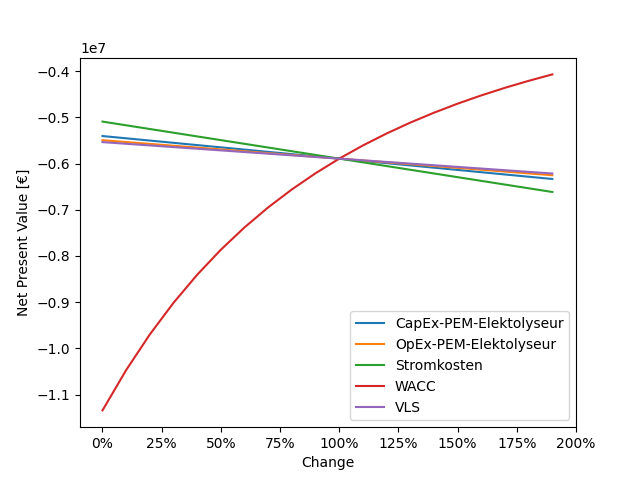
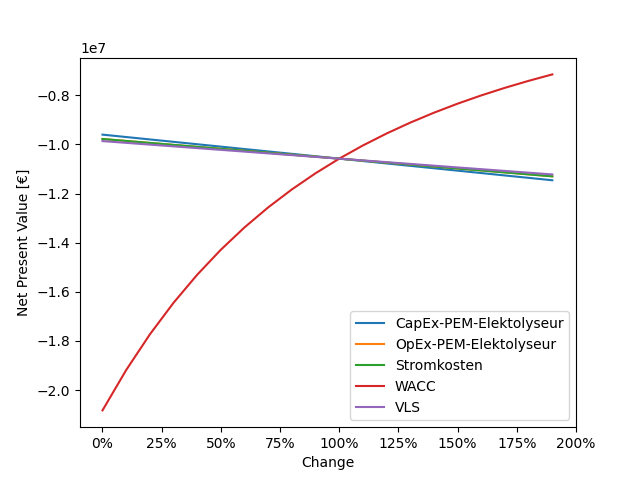
new functions

diff --git a/OBMETSC/templates/output.html b/OBMETSC/templates/output.html
@@ -40,6 +40,7 @@
     <div class="content">
     <label class="form-label">Sensitivity for X-Production:</label><br>
     <img src='/static/sensitivity_plot.png'/>
+    <img src='/static/sensitivity_lcox_plot.png'/>
     </div>
     <h4>Production Profiles of the Plant:</h4><br>
     <div class="content">
@@ -77,7 +78,7 @@
     <hr>
     <div class="content">
     <label class="form-label">Sensitivity for X-Production:</label><br>
-    <img src='/static/sensitivity_infra_plot.png'/>
+    <img src='/static/sensitivity_lcoi_plot.png'/>
     </div>
 </div>
 <p style="padding-bottom: 30px; width: 300px;">

diff --git a/OBMETSC/functions.py b/OBMETSC/functions.py
@@ -31,6 +31,7 @@ GAS_FLOW_HOUR_2 = 81.73
 GAS_FLOW_HOUR_3 = 801.49
 GAS_FLOW_HOUR_4 = 3205.94
 
+
 CAPEX_PIPE_1 = 400000  # in €/km (DN25/DP1)
 CAPEX_PIPE_2 = 400000  # (DN32/DP1)
 CAPEX_PIPE_3 = 850000  # (DN100/DP4)
@@ -568,12 +569,15 @@ def infrastructure_dimension(ptx_technology, do_infrastructure, infrastructure_t
             energy_demand_year = ENERGY_DEMAND_COMPRESSOR * production_profile['production'].sum()  # only if storage_dimension > 0
         else:
             energy_demand_year = 0
+        transport_time = 0
+        amount_tours_year = 0
+
     else:
         if infrastructure_type == "Pipeline":
             storage_dimension = 0
             onsite_storage = 0
             amount_trailer = 0
-            pipe_length = int(distance)
+            pipe_length = float(distance)
             transport_pressure = 0
             capacity = 0
             energy_demand_year = 0
@@ -585,7 +589,7 @@ def infrastructure_dimension(ptx_technology, do_infrastructure, infrastructure_t
             pipe_length = 0
             loading_time = 1.5
             speed = 50
-            transport_time = 2 * (int(distance) / int(speed)) + 2 * (int(loading_time))
+            transport_time = 2 * (float(distance) / float(speed)) + 2 * (float(loading_time))
             if production_profile['production'].sum() < 36 * CAPACITY_TUBETRAILER_1:
                 capacity = CAPACITY_TUBETRAILER_1
                 transport_pressure = 200
@@ -618,7 +622,7 @@ def infrastructure_dimension(ptx_technology, do_infrastructure, infrastructure_t
             transport_pressure = 0
             loading_time = 3
             speed = 50
-            transport_time = 2 * (int(distance) / int(speed)) + 2 * (int(loading_time))
+            transport_time = 2 * (float(distance) / float(speed)) + 2 * (float(loading_time))
             capacity = 4300
             amount_tours_year = (production_profile['production'].sum()) / capacity  # Angaben in kg
             interval_tours_hours = (8760 / amount_tours_year) - transport_time  # alle x Stunden kommt eine Lieferung
@@ -638,7 +642,7 @@ def infrastructure_dimension(ptx_technology, do_infrastructure, infrastructure_t
 
 
 # Function calculates the costs (NPV and cash flows over runtime) for the designed infrastructure
-def infrastructure_dcf(do_infrastructure, infrastructure_type, runtime, wacc, power_cost, distance, infrastructure):
+def dcf_infrastructure(do_infrastructure, infrastructure_type, runtime, wacc, power_cost, distance, infrastructure):
     power_cost_kwh = power_cost / 1000  # von €/MWh zu €/kWh
 
     if do_infrastructure == 'no':
@@ -779,13 +783,16 @@ def infrastructure_dcf(do_infrastructure, infrastructure_type, runtime, wacc, po
 
     return infrastructure_dcf, npv
 
-def LCOI(runtime, wacc, plant_production, infrastructure_dcf):
 
+def LCOI(runtime, wacc, plant_production, infrastructure_dcf):
     # calculate the annuity factor for given runtime and wacc
-    annuity_factor = (((1+wacc)**runtime)-1) / (((1+wacc)**runtime)*wacc)
+    if wacc == 0:
+        wacc = 0.01
+    annuity_factor = (((1 + wacc) ** runtime) - 1) / (((1 + wacc) ** runtime) * wacc)
 
     # access only the cost columns of the dcf dataframe
     cost_df = infrastructure_dcf[0]
+    # cost_df.drop(cost_df.columns[[5, 6, 7]], axis=1, inplace=True)
 
     # calculate the investment cost and discoutned annual cost based on the reduces dcf dataframe
     total_investment = cost_df.loc[0].sum()
@@ -794,13 +801,13 @@ def LCOI(runtime, wacc, plant_production, infrastructure_dcf):
     total_discounted_cost = (total_investment + annual_cost) * -1
 
     # calculate the discounted production based on the plant productin profile
-    x_production = plant_production.production
-    discounted_production = sum(x_production) * annuity_factor
+    discounted_production = plant_production * annuity_factor
 
     # claculate the levelised cost
     Levelized_cost_infra = total_discounted_cost / discounted_production
 
     return Levelized_cost_infra
+
 
 def sensitivity(power_technology, capex_technology, opex_technology, runtime, power_cost, power_price_series,
                 variable_cost, product_price, wacc, price_change, regulations_grid_expenditure,
@@ -835,9 +842,8 @@ def sensitivity(power_technology, capex_technology, opex_technology, runtime, po
                                 regulations_grid_expenditure, EEG_expenditure, capex_decrease, opex_decrease, temp,
                                 dcf_power_expenditure)
         output["VLS"].append(npv)
-    return output
     plt.figure(1)
-    for name, values in sens_ptx.items():
+    for name, values in output.items():
        plt.plot(values, label=name)
     plt.xticks(np.arange(0,21,2.5),['0%','25%','50%','75%','100%','125%','150%','175%','200%'])
     plt.ylabel('Net Present Value [€]')
@@ -845,9 +851,9 @@ def sensitivity(power_technology, capex_technology, opex_technology, runtime, po
     plt.legend()
     plt.savefig("static/sensitivity_plot.png")
     plt.close()
+    return output
 
-
-def sensitivity_infra(do_infrastructure, infrastructure_type, runtime, wacc, power_cost, distance, infrastructure):
+'''def sensitivity_infra(do_infrastructure, infrastructure_type, runtime, wacc, power_cost, distance, infrastructure):
     output_1 = {"WACC": [], "Pipelinelänge": []}
     for x in range(20):
         factor = (x/10)
@@ -867,4 +873,40 @@ def sensitivity_infra(do_infrastructure, infrastructure_type, runtime, wacc, pow
     plt.xlabel('Change')
     plt.legend()
     plt.savefig("static/sensitivity_infra_plot.png")
+    plt.close()'''
+
+
+def sensitivity_LCOI(runtime, wacc, plant_production, infrastructure_dcf):
+    output_1 = {"WACC": [], "Wasserstoffmenge": []}
+    for x in range(20):
+        factor = (x/10)
+        levelized_cost_infra = LCOI(runtime, wacc * factor, plant_production, infrastructure_dcf)
+        output_1["WACC"].append(levelized_cost_infra)
+        levelized_cost_infra = LCOI(runtime, wacc, plant_production * factor, infrastructure_dcf)
+        output_1["Wasserstoffmenge"].append(levelized_cost_infra)
+    plt.figure(2)
+    for name, values in output_1.items():
+        plt.plot(values)
+    plt.ylabel('LCOI')
+    plt.xlabel('Change')
+    plt.legend()
+    plt.savefig("static/sensitivity_lcoi_plot.png")
     plt.close()
+    return output_1
+
+
+def sens_LCOH2(runtime, wacc, plant_production, power_to_x_dcf):
+    output_1 = {"WACC": [], "Wasserstoffmenge": []}
+    for x in range(20):
+        factor = (x / 10)
+        Levelized_cost = LCOI(runtime, wacc, plant_production * factor, power_to_x_dcf)
+        output_1["Wasserstoffmenge"].append(Levelized_cost)
+    plt.figure(3)
+    for name, values in output_1.items():
+        plt.plot(values)
+    plt.ylabel('LCOH')
+    plt.xlabel('Change')
+    plt.legend()
+    plt.savefig("static/sensitivity_lcox_plot.png")
+    plt.close()
+    return output_1

diff --git a/OBMETSC/main.py b/OBMETSC/main.py
@@ -129,6 +129,7 @@ def get():
     min_storage_dimension_kg = min_storage_dimension_kwh / 33.3
     storage_time_hour = storage_time_days * 24
 
+
     # the values are translated into the variables for the functions, efficiency is set as electrical efficiency
     capex_power_kw = capex_input  # €/kW
     opex_power_kw = float(opex_input / 100)
@@ -184,7 +185,7 @@ def get():
                     capex_decrease, opex_decrease, copy.deepcopy(c), dcf_power_expenditure)
 
         LCOX = LCOH2(runtime, wacc, c, copy.deepcopy(d))
-
+        sens_lcox = sens_LCOH2(runtime, wacc, sum_ptx, copy.deepcopy(d))
         # the output and DCF for a XtP Technology are calculated (for details: functions.py)
     elif ptx_technology == "X-to-Power":
         e = output_x_to_power(power_cost, power_price_series, power_technology, product_price, efficiency_el,
@@ -209,12 +210,12 @@ def get():
                                  power_input, power_cost, power_price_series, efficiency_el, efficiency_q, price_change,
                                  share_input_wind, share_input_pv, min_storage_dimension_kg, storage_time_hour)
 
-    h = infrastructure_dcf(do_infrastructure, infrastructure_type, runtime, wacc, power_cost, distance, g)
-    sens_infra = sensitivity_infra(do_infrastructure, infrastructure_type, runtime, wacc, power_cost, distance,
-                                   copy.deepcopy(g))
+    h = dcf_infrastructure(do_infrastructure, infrastructure_type, runtime, wacc, power_cost, distance, g)
+    # sens_infra = sensitivity_infra(do_infrastructure, infrastructure_type, runtime, wacc, power_cost, distance,
+                                  # copy.deepcopy(g))
 
-    LCOT = LCOI(runtime, wacc, c, copy.deepcopy(h))
-
+    LCOT = LCOI(runtime, wacc, sum_ptx, h)
+    sens_lcoi = sensitivity_LCOI(runtime, wacc, sum_ptx, copy.deepcopy(h))
     # a graphic is created from the power production profile
     if input_technology in list_pp and ptx_technology in list_ptx:
         plt.figure(0)
